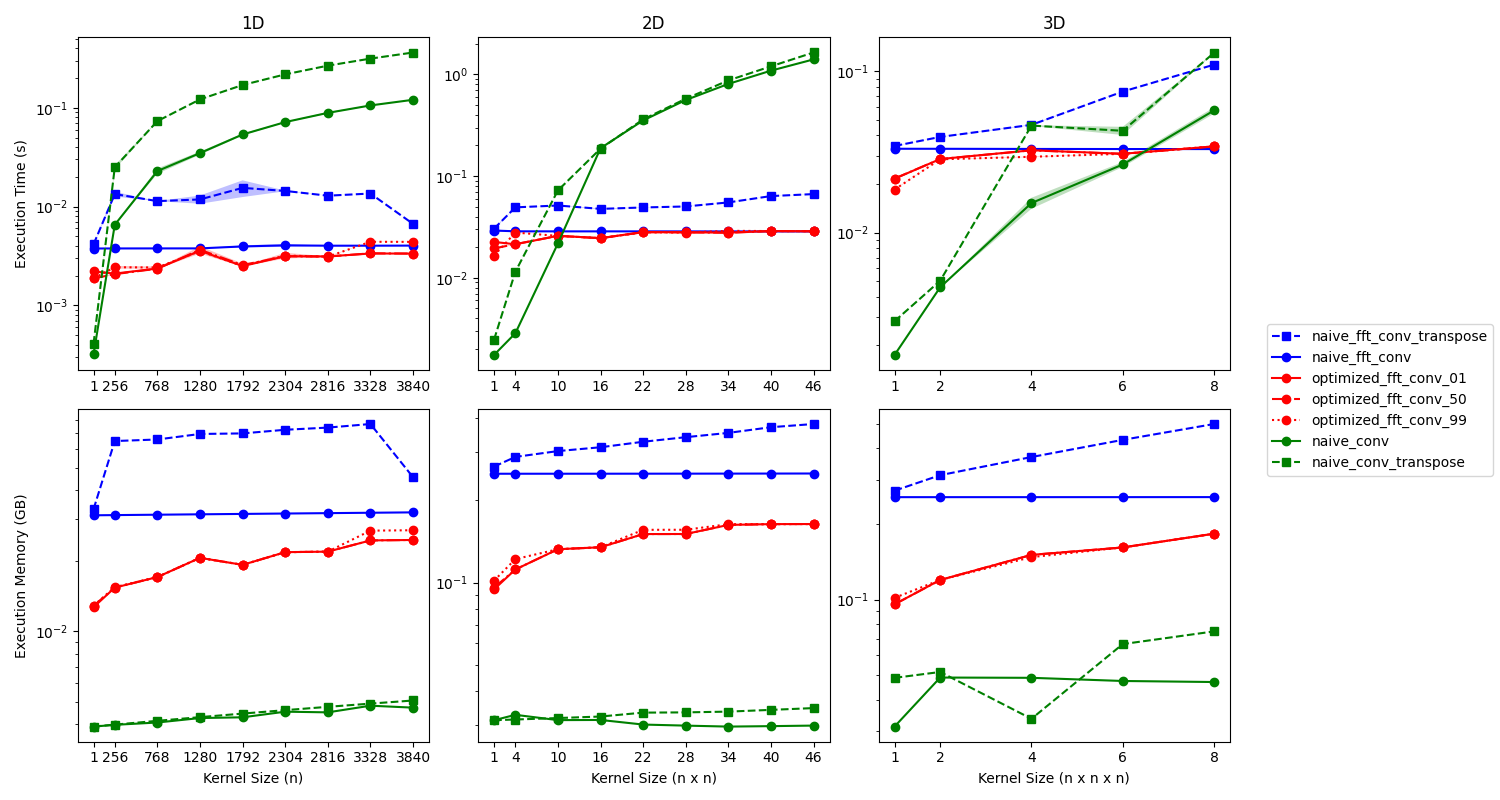
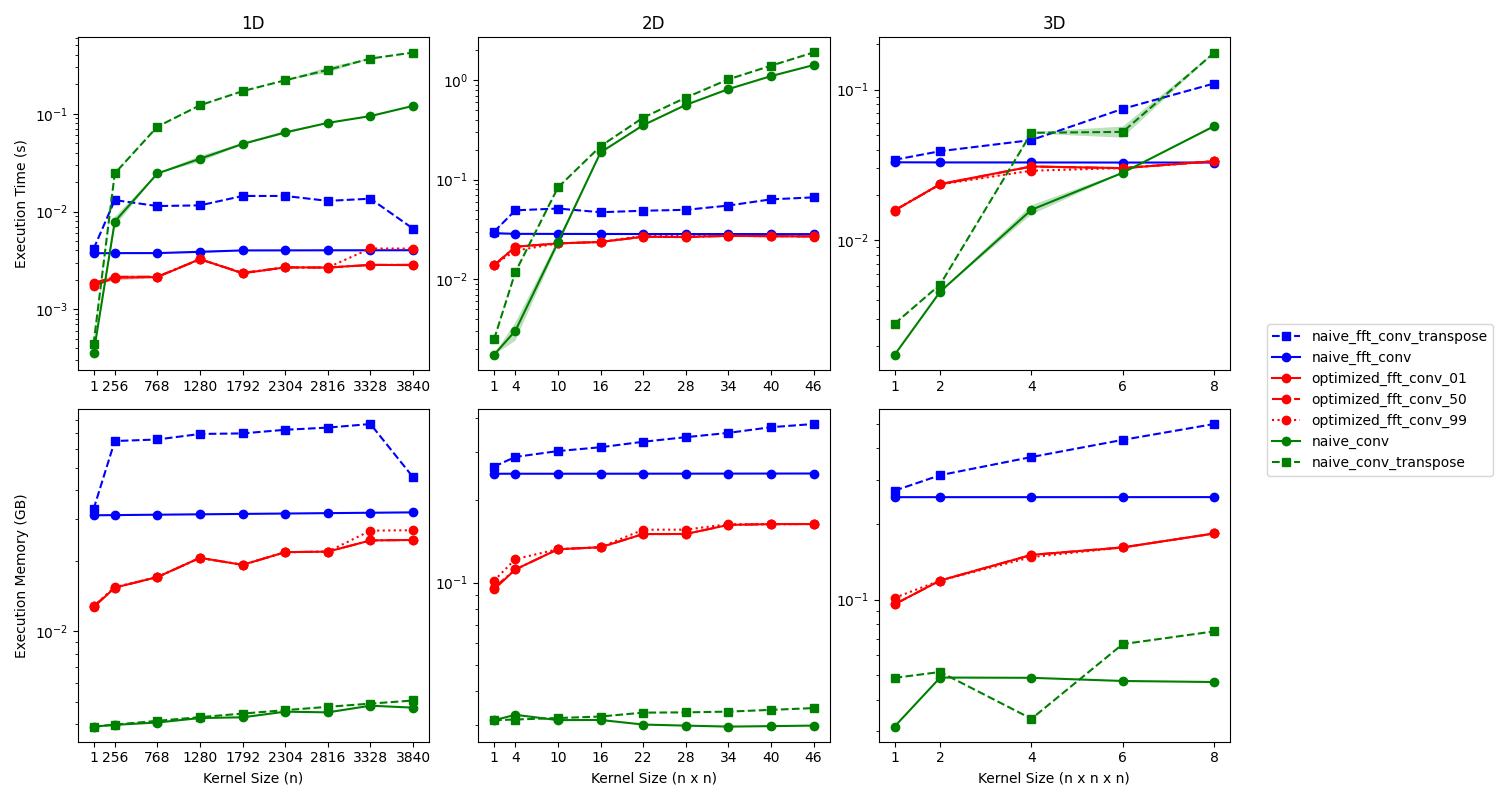
apply torch cpp cuda extension (without debugging)

diff --git a/setup.py b/setup.py
@@ -1,34 +1,142 @@
+#!/usr/bin/env python
+# -*- coding: utf-8 -*-
+
+# Note: To use the 'upload' functionality of this file, you must:
+#   $ pipenv install twine --dev
+
+import io
 import os
-from distutils.core import setup
-from subprocess import getoutput
+import sys
+from shutil import rmtree
 
-import setuptools
-
-
-def get_version_tag() -> str:
-    try:
-        version = os.environ["FFT_CONV_PYTORCH_VERSION"]
-    except KeyError:
-        version = getoutput("git describe --tags --abbrev=0")
-
-    return version
+from setuptools import find_packages, setup, Command, Extension
+from torch.utils import cpp_extension
 
 
+# Package meta-data.
+NAME = 'fft-conv-pytorch'
+DESCRIPTION = 'Implementation of 1D, 2D, and 3D FFT convolutions in PyTorch.'
+URL = 'https://github.com/klae01/fft-conv-pytorch'
+EMAIL = 'tspt2479@gmail.com'
+AUTHOR = 'klae01'
+REQUIRES_PYTHON = '>=3.7.0'
+VERSION = None #'0.0.0'
+project_slug = None
+
+if project_slug is None:
+    project_slug = NAME.lower().replace("-", "_").replace(" ", "_")
+
+# What packages are required for this module to be executed?
+REQUIRED = [
+    "numba", "numpy", "torch>=1.8",
+]
+
+# What packages are optional?
+EXTRAS = {
+    "test": ["black", "flake8", "isort", "pytest", "pytest-cov"]
+}
+
+# The rest you shouldn't have to touch too much :)
+# ------------------------------------------------
+# Except, perhaps the License and Trove Classifiers!
+# If you do change the License, remember to change the Trove Classifier for that!
+
+here = os.path.abspath(os.path.dirname(__file__))
+
+# Import the README and use it as the long-description.
+# Note: this will only work if 'README.md' is present in your MANIFEST.in file!
+try:
+    with io.open(os.path.join(here, 'README.md'), encoding='utf-8') as f:
+        long_description = '\n' + f.read()
+except FileNotFoundError:
+    long_description = DESCRIPTION
+
+# Load the package's __version__.py module as a dictionary.
+about = {}
+if not VERSION:
+    with open(os.path.join(here, project_slug, '__version__.py')) as f:
+        exec(f.read(), about)
+else:
+    about['__version__'] = VERSION
+
+
+class UploadCommand(Command):
+    """Support setup.py upload."""
+
+    description = 'Build and publish the package.'
+    user_options = []
+
+    @staticmethod
+    def status(s):
+        """Prints things in bold."""
+        print('\033[1m{0}\033[0m'.format(s))
+
+    def initialize_options(self):
+        pass
+
+    def finalize_options(self):
+        pass
+
+    def run(self):
+        try:
+            self.status('Removing previous builds…')
+            rmtree(os.path.join(here, 'dist'))
+        except OSError:
+            pass
+
+        self.status('Building Source and Wheel (universal) distribution…')
+        os.system('{0} setup.py sdist bdist_wheel --universal'.format(sys.executable))
+
+        self.status('Uploading the package to PyPI via Twine…')
+        os.system('twine upload dist/*')
+
+        self.status('Pushing git tags…')
+        os.system('git tag v{0}'.format(about['__version__']))
+        os.system('git push --tags')
+
+        sys.exit()
+
+ext_modules = [
+        cpp_extension.CppExtension('fft_conv_pytorch.optimized.lib.cpu', ["fft_conv_pytorch/optimized/lib/PlaneDot.cpp"]),
+        cpp_extension.CppExtension('fft_conv_pytorch.optimized.lib.cuda', ["fft_conv_pytorch/optimized/lib/PlaneDot.cu"])
+]
+
+# Where the magic happens:
 setup(
-    name="fft-conv-pytorch",
-    version=get_version_tag(),
-    author="Frank Odom",
-    author_email="frank.odom.iii@gmail.com",
-    url="https://github.com/fkodom/fft-conv-pytorch",
-    packages=setuptools.find_packages(exclude=["tests"]),
-    description="Implementation of 1D, 2D, and 3D FFT convolutions in PyTorch.",
-    long_description=open("README.md").read(),
-    long_description_content_type="text/markdown",
-    install_requires=["numba", "numpy", "torch>=1.8"],
-    extras_require={"test": ["black", "flake8", "isort", "pytest", "pytest-cov"]},
+    name=NAME,
+    version=about['__version__'],
+    description=DESCRIPTION,
+    long_description=long_description,
+    long_description_content_type='text/markdown',
+    author=AUTHOR,
+    author_email=EMAIL,
+    python_requires=REQUIRES_PYTHON,
+    url=URL,
+    ext_modules=ext_modules,
+    packages=find_packages(exclude=["tests", "*.tests", "*.tests.*", "tests.*"]),
+    # If your package is a single module, use this instead of 'packages':
+    # py_modules=['mypackage'],
+
+    # entry_points={
+    #     'console_scripts': ['mycli=mymodule:cli'],
+    # },
+    install_requires=REQUIRED,
+    extras_require=EXTRAS,
+    include_package_data=True,
+    license='MIT',
     classifiers=[
-        "Programming Language :: Python :: 3",
-        "Operating System :: OS Independent",
+        # Trove classifiers
+        # Full list: https://pypi.python.org/pypi?%3Aaction=list_classifiers
+        'Development Status :: 3 - Alpha',
+        'License :: OSI Approved :: MIT License',
+        'Operating System :: POSIX :: Linux',
+        'Programming Language :: C++',
+        'Programming Language :: Python',
+        'Programming Language :: Python :: 3',
     ],
-    python_requires=">=3.7",
+    # $ setup.py publish support.
+    cmdclass={
+        'build_ext': cpp_extension.BuildExtension,
+        'upload': UploadCommand,
+    },
 )

diff --git a/fft_conv_pytorch/optimized/extension.py b/fft_conv_pytorch/optimized/extension.py
@@ -1,0 +1,62 @@
+import torch
+from torch import Tensor
+
+from .lib import cpu, cuda
+
+
+def RaiseNotImplementedError(str):
+    def _sub(*args):
+        raise NotImplementedError(str)
+
+    return _sub
+
+
+def get_device_type(tensor: Tensor):
+    if tensor.device == torch.device("cpu"):
+        return "CPU"
+    elif torch.cuda.is_available() and torch.version.cuda and tensor.is_cuda:
+        return "CUDA"
+    elif torch.cuda.is_available() and torch.version.hip and tensor.is_cuda:
+        return "HIP"
+    else:
+        raise NotImplementedError("Unable to decide Tensor device type")
+
+
+class FastPlaneDot(torch.autograd.Function):
+    @staticmethod
+    def forward(ctx, a: Tensor, b: Tensor):
+        assert a.is_contiguous(memory_format=torch.contiguous_format)
+        assert b.is_contiguous(memory_format=torch.contiguous_format)
+        assert a.dtype == b.dtype
+        assert a.device == b.device
+        assert a.ndim == 5 and b.ndim == 4
+        _, ag, ai, _, al = a.shape
+        bg, _, bi, bl = b.shape
+        assert ag == bg
+        assert ai == bi
+        assert al == bl
+        ctx.save_for_backward(a, b)
+        result = {
+            "CPU": cpu.PlaneDot_forward,
+            "CUDA": cuda.PlaneDot_forward,
+            "HIP": RaiseNotImplementedError("Device type: HIP"),
+        }[get_device_type(a)](a, b)
+        result.requires_grad = a.requires_grad or b.requires_grad
+        return result
+
+    @staticmethod
+    def backward(ctx, grad_output):
+        a, b = ctx.saved_tensors
+        grad_A = a.new_empty(a.shape)
+        grad_B = b.new_empty(b.shape)
+        {
+            "CPU": cpu.PlaneDot_backprop_A,
+            "CUDA": cuda.PlaneDot_backprop_A,
+            "HIP": RaiseNotImplementedError("Device type: HIP"),
+        }[get_device_type(a)](grad_A, b, grad_output)
+        {
+            "CUDA": cuda.PlaneDot_backprop_B,
+            "CPU": cpu.PlaneDot_backprop_B,
+            "HIP": RaiseNotImplementedError("Device type: HIP"),
+        }[get_device_type(a)](a, grad_B, grad_output)
+        return grad_A, grad_B

diff --git a/fft_conv_pytorch/optimized/functional.py b/fft_conv_pytorch/optimized/functional.py
@@ -9,8 +9,22 @@ import torch.nn.functional as F
 from torch import Tensor, nn
 from torch.fft import irfftn, rfftn
 
-from .functional import complex_matmul
-from .utils import to_ntuple
+from .extension import FastPlaneDot
+from ..utils import to_ntuple
+
+
+def complex_matmul(a: Tensor, b: Tensor, n: int, groups: int) -> Tensor:
+    return (
+        FastPlaneDot.apply(
+            a.unflatten(1, [groups, a.size(1) // groups])
+            .flatten(-n * 3, -n - 1)
+            .flatten(-n),
+            b.unflatten(0, [groups, b.size(0) // groups]).flatten(-n),
+        )
+        .flatten(1, 2)
+        .unflatten(-2, a.shape[-3 * n : -n])
+        .unflatten(-1, a.shape[-n:])
+    )
 
 
 @numba.njit()
@@ -186,7 +200,7 @@ def opt_control(
     out_tensor = input_size[0] * kernel_size[0] * c_info * p_info
     grad_save = sig_tensor + krn_tensor if backward else 0
     update(
-        np.maximum(sig_tensor, krn_tensor) + out_tensor + grad_save,
+        out_tensor + grad_save,
         out_tensor + grad_save,
         input_size[0] * np.prod(kernel_size[:2]) * c_info * p_info
         + sig_tensor
@@ -348,12 +362,12 @@ def fft_conv(
         signal = F.pad(signal, signal_padding, mode=padding_mode)
 
     signal, merge_index = Dblock(signal, K, TRG, ST, SSC, JMP, SBC, BSZ)
-    kernel = kernel[[slice(None)] * 2 + [None] * 2 * n + [slice(None)] * n]
     output = Mblock(
         irfftn(
             complex_matmul(
                 rfftn(signal, BSZ.tolist(), dim=tuple(range(-n, 0))),
                 rfftn(kernel, BSZ.tolist(), dim=tuple(range(-n, 0))).conj(),
+                n=n,
                 groups=groups,
             ),
             BSZ.tolist(),

diff --git a/fft_conv_pytorch/optimized/nn.py b/fft_conv_pytorch/optimized/nn.py
@@ -1,0 +1,63 @@
+from torch import Tensor, nn
+
+from .functional import fft_conv  # , fft_conv_transpose
+from ..utils import to_ntuple
+
+
+class _FFTConvForward(nn.Module):
+    """Base class for PyTorch FFT convolution layers."""
+
+    def forward(self, signal: Tensor):
+        assert signal.ndim == self.weight.ndim
+        padding_mode = [self.padding_mode, "constant"][self.padding_mode == "zeros"]
+        return fft_conv(
+            signal,
+            self.weight,
+            bias=self.bias,
+            stride=self.stride,
+            padding=self.padding,
+            dilation=self.dilation,
+            groups=self.groups,
+            padding_mode=padding_mode,
+        )
+
+
+# class _FFTConvTransposeForward(nn.Module):
+#     """Base class for PyTorch FFT convolution layers."""
+
+#     def forward(self, signal: Tensor):
+#         assert signal.ndim == self.weight.ndim
+#         return fft_conv_transpose(
+#             signal,
+#             self.weight,
+#             bias=self.bias,
+#             stride=self.stride,
+#             padding=self.padding,
+#             output_padding=self.output_padding,
+#             dilation=self.dilation,
+#             groups=self.groups,
+#         )
+
+
+class FFTConv1d(_FFTConvForward, nn.Conv1d):
+    ...
+
+
+class FFTConv2d(_FFTConvForward, nn.Conv2d):
+    ...
+
+
+class FFTConv3d(_FFTConvForward, nn.Conv3d):
+    ...
+
+
+# class FFTConvTranspose1d(_FFTConvTransposeForward, nn.ConvTranspose1d):
+#     ...
+
+
+# class FFTConvTranspose2d(_FFTConvTransposeForward, nn.ConvTranspose2d):
+#     ...
+
+
+# class FFTConvTranspose3d(_FFTConvTransposeForward, nn.ConvTranspose3d):
+#     ...

diff --git a/doc/scripts/generate_benchmark_plot.py b/doc/scripts/generate_benchmark_plot.py
@@ -8,7 +8,8 @@ import torch.nn.functional as f
 from matplotlib.ticker import MaxNLocator
 from tqdm import tqdm
 
-from fft_conv_pytorch import functional, optimized
+from fft_conv_pytorch import functional
+from fft_conv_pytorch.optimized import functional as optimized
 from fft_conv_pytorch.benchmark_utils import Benchmark, benchmark
 
 to_ntuple = functional.to_ntuple

diff --git a/tests/test_convolution_optimized.py b/tests/test_convolution_optimized.py
@@ -5,7 +5,7 @@ import torch
 import torch.nn.functional as f
 
 from fft_conv_pytorch.benchmark_utils import _assert_almost_equal, _gcd
-from fft_conv_pytorch.optimized import fft_conv, to_ntuple
+from fft_conv_pytorch.optimized.functional import fft_conv, to_ntuple
 
 
 @pytest.mark.parametrize("tradeoff", [0.01, 0.5, 0.99])

diff --git a/fft_conv_pytorch/optimized/__init__.py b/fft_conv_pytorch/optimized/__init__.py
@@ -1,0 +1,9 @@
+from . import functional, nn
+from .nn import (
+    FFTConv1d,
+    FFTConv2d,
+    FFTConv3d,
+    # FFTConvTranspose1d,
+    # FFTConvTranspose2d,
+    # FFTConvTranspose3d,
+)

diff --git a/fft_conv_pytorch/__version__.py b/fft_conv_pytorch/__version__.py
@@ -1,0 +1,3 @@
+VERSION = (0, 1, 0)
+
+__version__ = ".".join(map(str, VERSION))

diff --git a/README.md b/README.md
@@ -59,11 +59,12 @@ Dimensions | Input Size   | Input Channels | Output Channels | Bias | Padding | 
 
 ### Test coverage
 ```
+pip install --no-cache-dir .
 pytest --cov --cov-report term-missing --cov-fail-under 90 tests/  --maxfail=1
 ```
 
 ### Test Performance
 ```
-pip install . 
+pip install --no-cache-dir .
 python3 doc/scripts/generate_benchmark_plot.py
 ```
